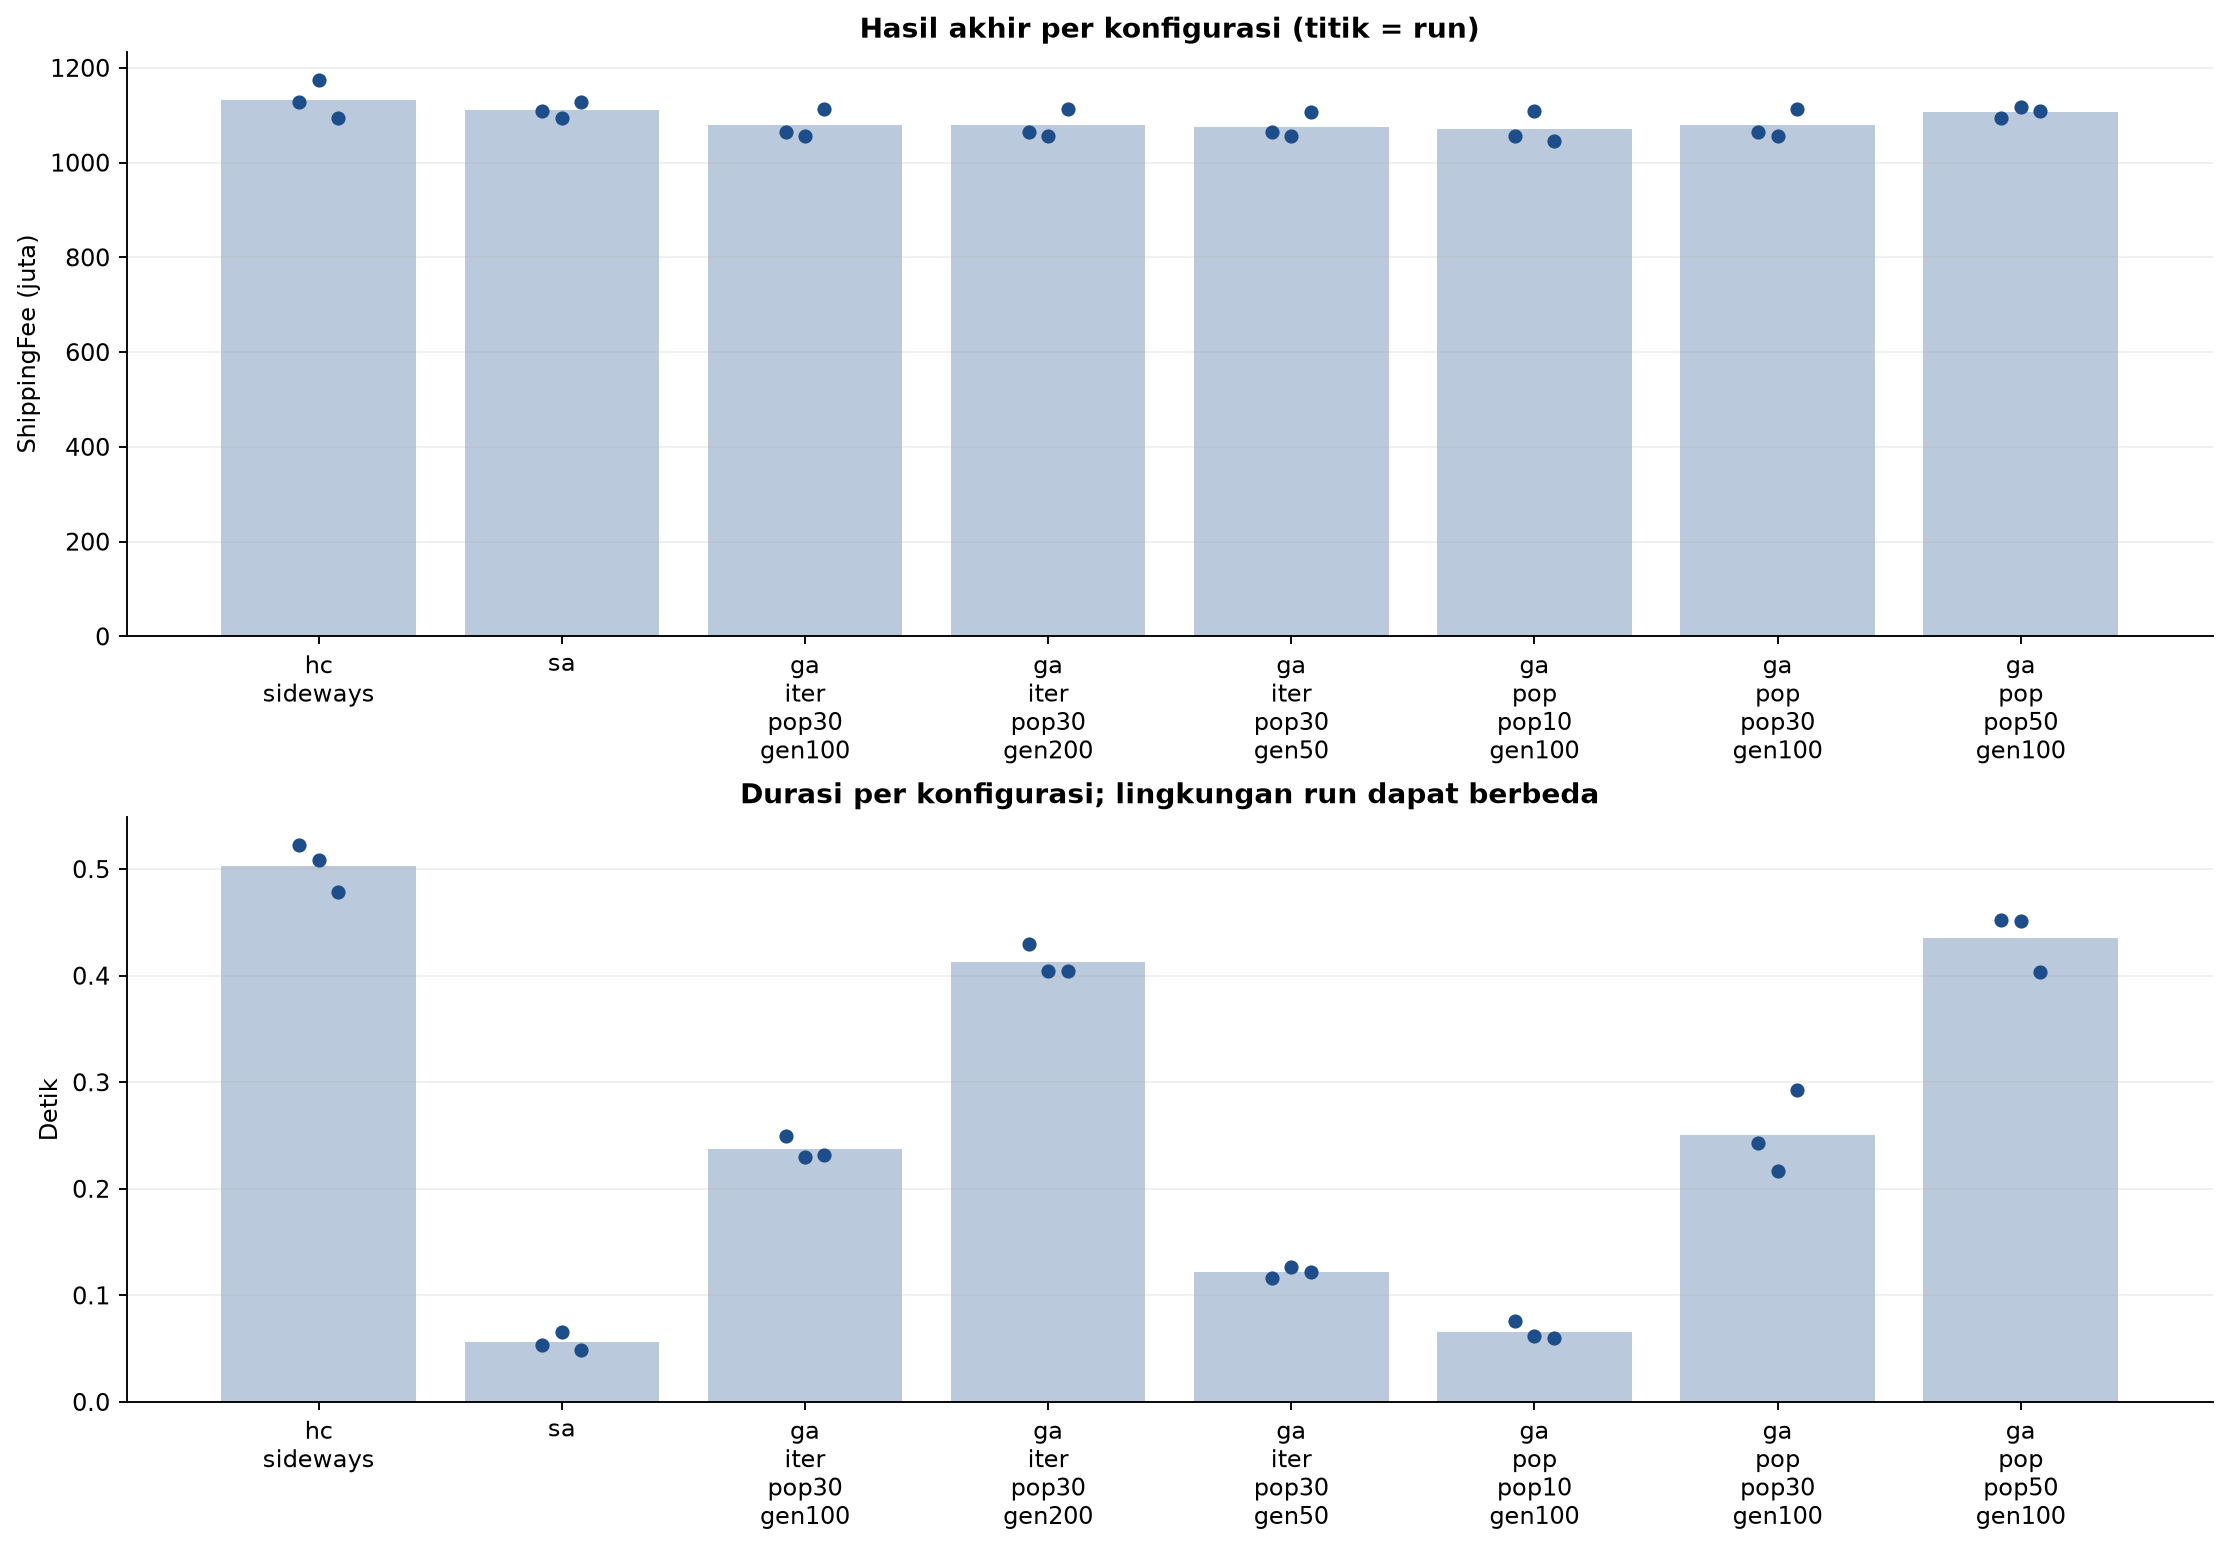
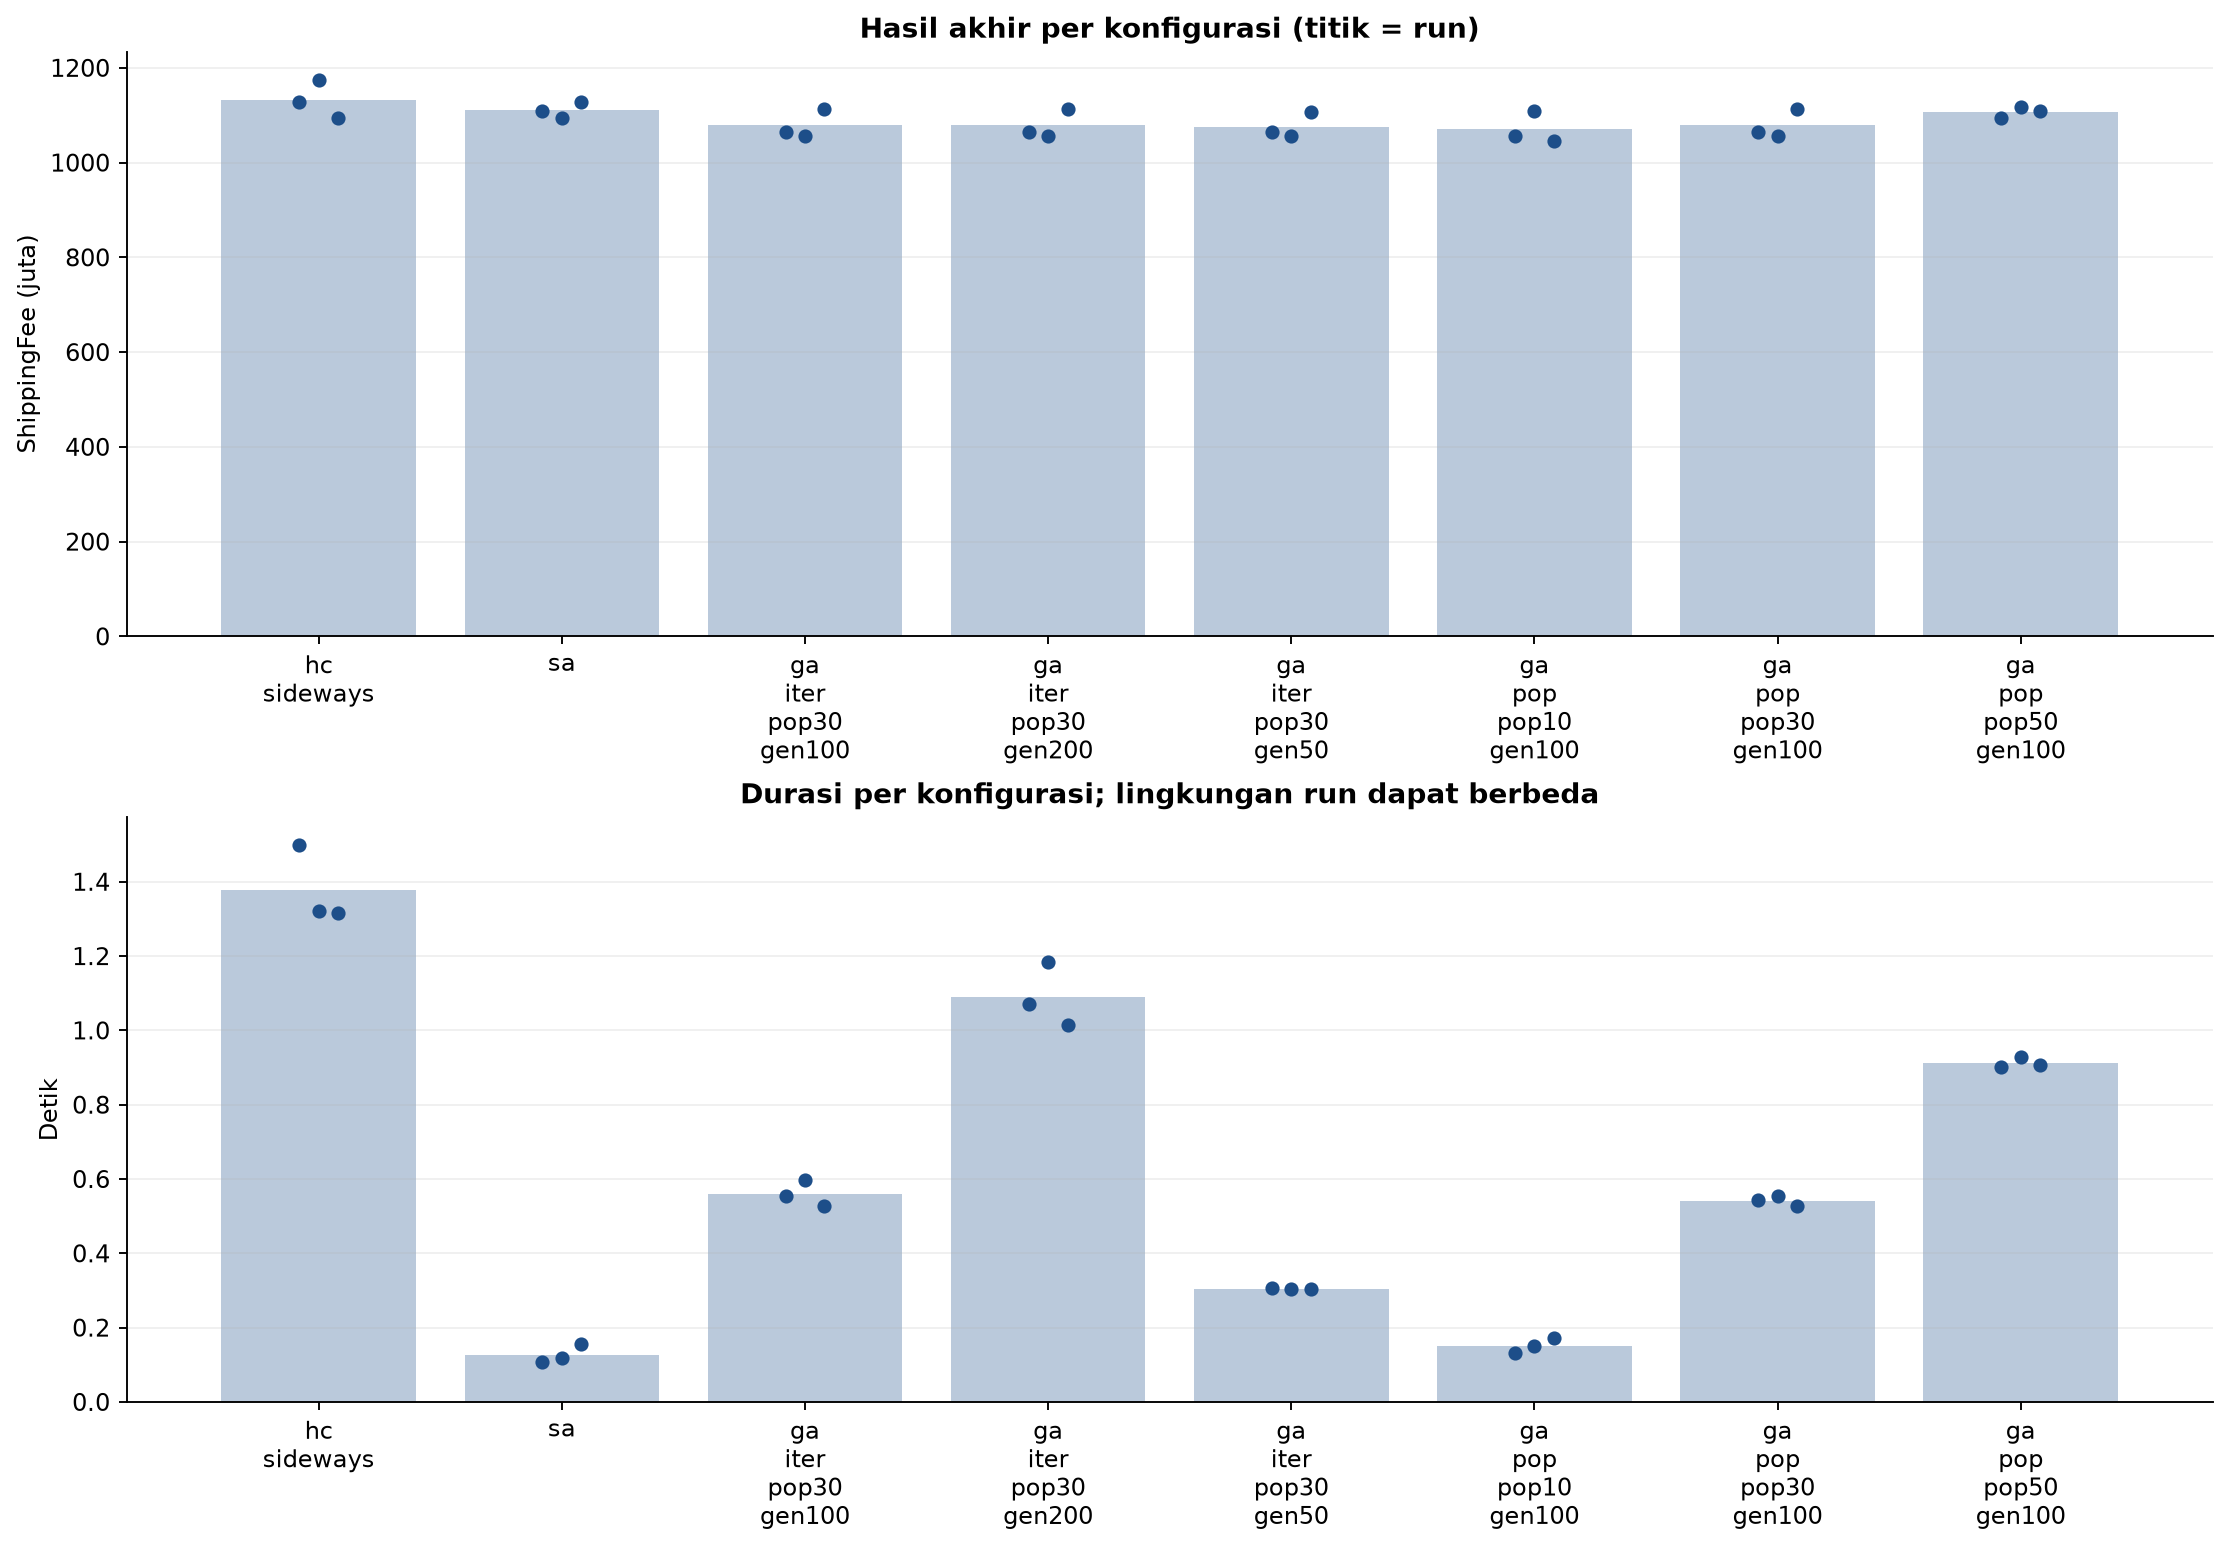
refactor: pisah output

diff --git a/src/simulated_annealing.py b/src/simulated_annealing.py
@@ -7,13 +7,13 @@ from result import SearchResult
 
 def simulated_annealing(initial, initial_temp=100.0, cooling_rate=0.995,
                         min_temp=0.01, max_iter=5000, stuck_window=100,
-                        evaluation_bias=0.0, rng=None):
+                        skor_evaluasi=0.0, rng=None):
     if not initial.is_valid():
         raise ValueError('Initial state tidak valid')
     if not (math.isfinite(initial_temp) and math.isfinite(min_temp)
             and 0 < min_temp < initial_temp and 0 < cooling_rate < 1):
         raise ValueError('Perlu 0 < min_temp < initial_temp dan 0 < cooling_rate < 1')
-    if max_iter < 1 or stuck_window < 1 or not math.isfinite(evaluation_bias):
+    if max_iter < 1 or stuck_window < 1 or not math.isfinite(skor_evaluasi):
         raise ValueError('Parameter iterasi/window/bias tidak valid')
     rng = rng or random.Random()
     start = time.perf_counter()
@@ -30,7 +30,7 @@ def simulated_annealing(initial, initial_temp=100.0, cooling_rate=0.995,
         # Tidak ada proposal bukan bukti bahwa seluruh neighborhood kosong.
         candidate = current.random_neighbor(rng) if current.vehicles else None
         delta = None if candidate is None else candidate.value() - current.value()
-        effective_delta = None if delta is None else delta + evaluation_bias
+        effective_delta = None if delta is None else delta + skor_evaluasi
         prob = None if delta is None else math.exp(min(0.0, effective_delta / temp))
         draw = rng.random() if prob is not None and prob < 1 else None
         accepted = prob is not None and (prob == 1 or draw < prob)
@@ -56,7 +56,7 @@ def simulated_annealing(initial, initial_temp=100.0, cooling_rate=0.995,
     return SearchResult(
         name='sa', params=dict(initial_temp=initial_temp, cooling_rate=cooling_rate,
             min_temp=min_temp, max_iter=max_iter, stuck_window=stuck_window,
-            evaluation_bias=evaluation_bias), initial_state=initial.copy(),
+            skor_evaluasi=skor_evaluasi), initial_state=initial.copy(),
         final_state=current, history=history, iterations=len(trace),
         duration=time.perf_counter()-start,
         extras=dict(trace=trace, best_history=best_history, best_state=best.to_dict(),

diff --git a/src/runner.py b/src/runner.py
@@ -155,7 +155,8 @@ def write_summary(rows, out):
 def main():
     ap = argparse.ArgumentParser()
     ap.add_argument("--input")
-    ap.add_argument("--out", default=os.path.join(os.path.dirname(__file__), "..", "output"))
+    ap.add_argument("--out", default=os.path.abspath(
+        os.path.join(os.path.dirname(__file__), "..", "output")))
     ap.add_argument("--seed", type=int, default=42)
     ap.add_argument("--n-vehicles", type=int, default=30)
     ap.add_argument("--only", default="hc,sa,ga")

diff --git a/src/visualize.py b/src/visualize.py
@@ -13,7 +13,7 @@ BLUE, ORANGE, GREEN = '#1d4e89', '#d87628', '#2a9d8f'
 
 
 def plot_base(json_path):
-    p = Path(json_path)
+    p = Path(json_path).resolve()
     return str(p.parent.parent / 'plots' / p.parent.name / p.stem)
 
 def finish(fig, path):
